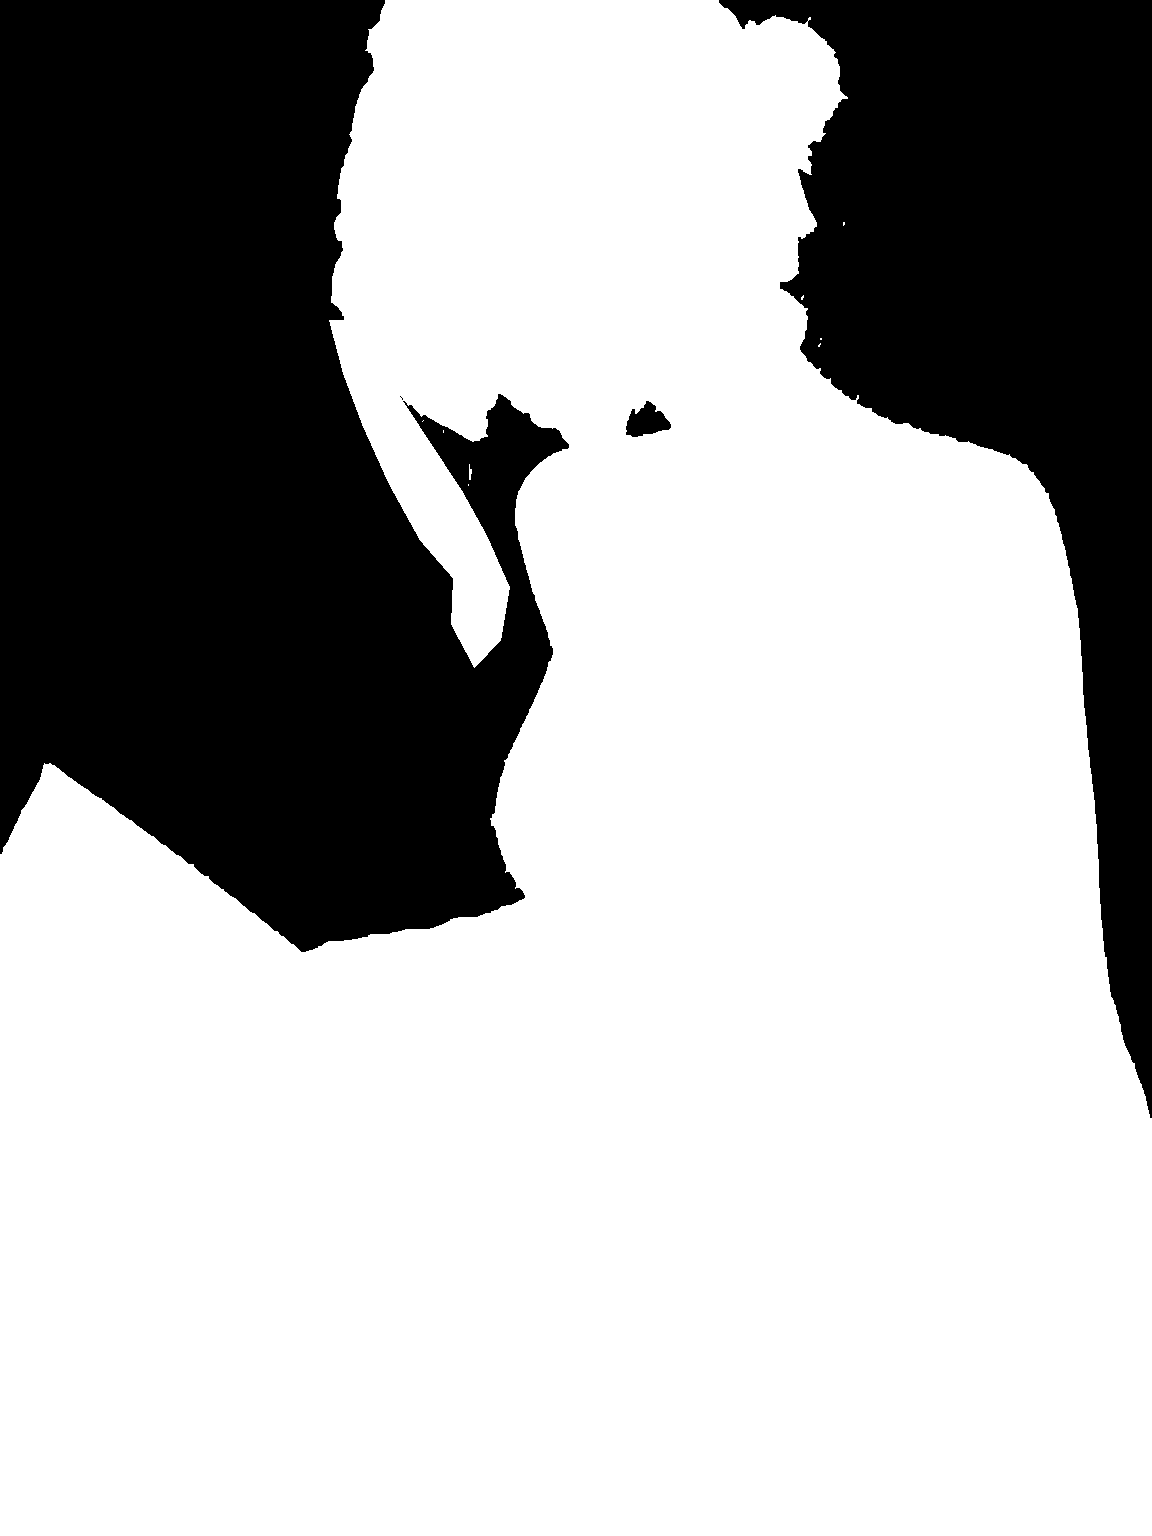
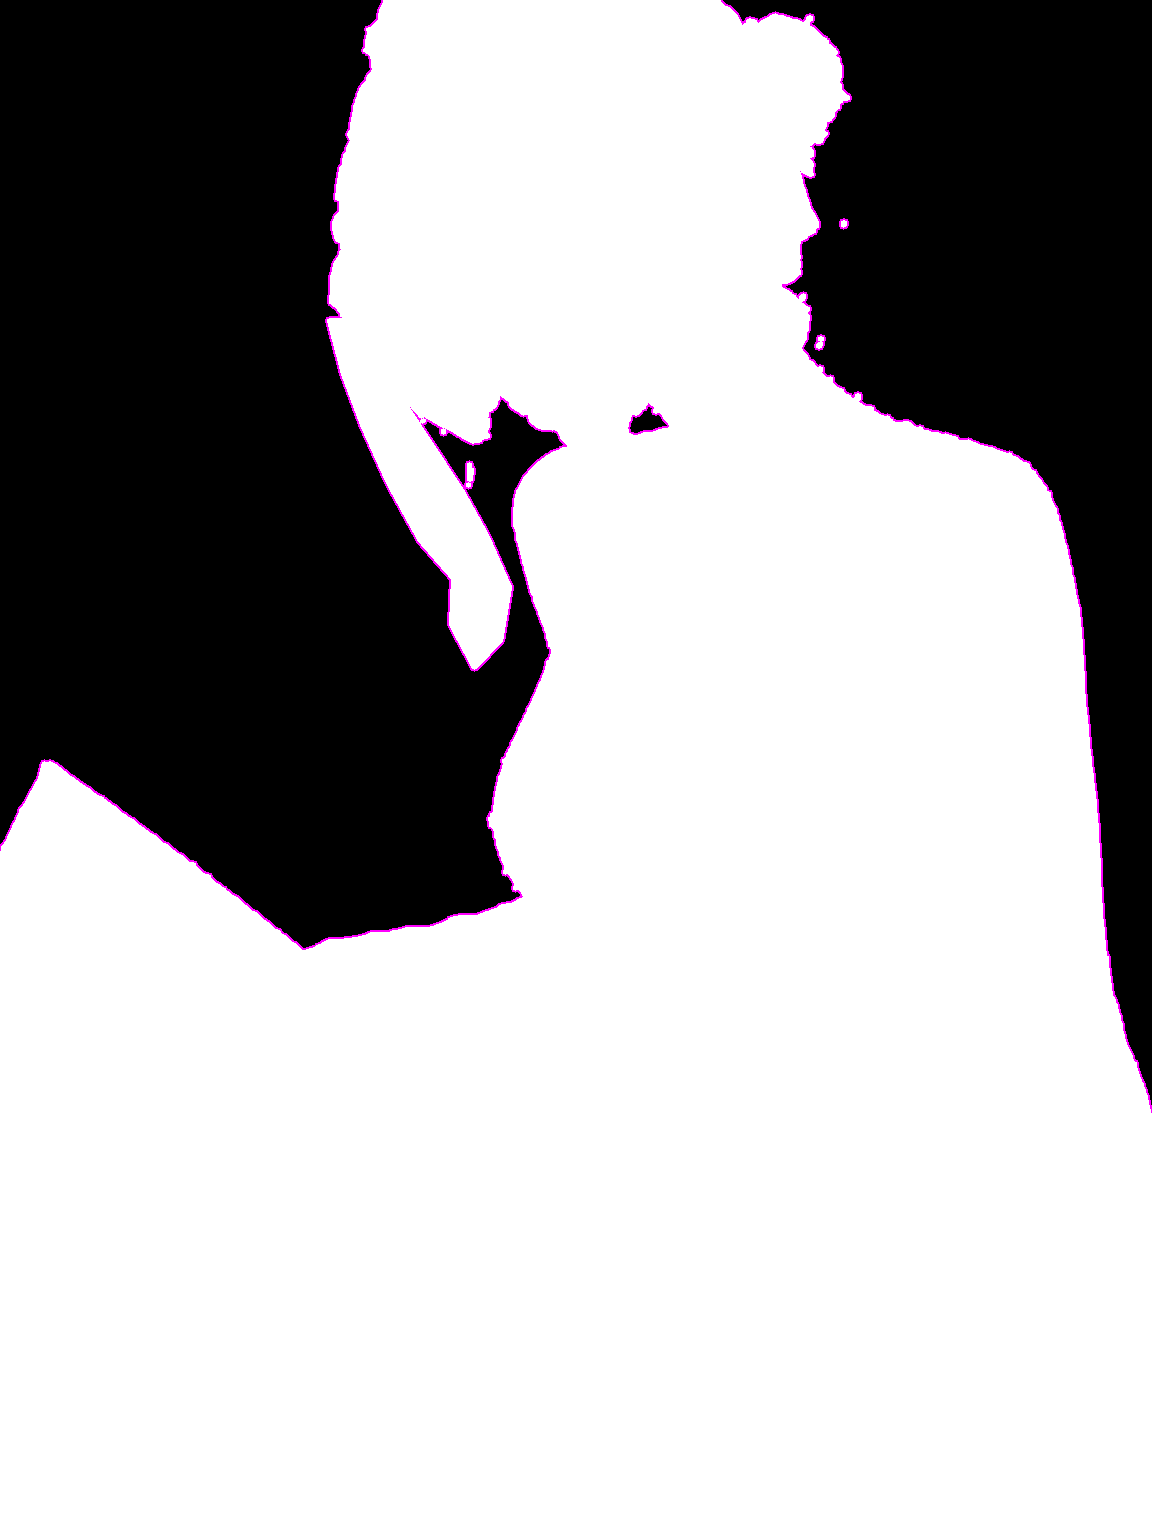
Fix residual pale contour and chest attachment fields
Separate motion coverage from static-source erasure, with erasure inside opaque coverage to remove the old curve without a neutral dark ring. Replace a single broad material field with two smooth chest lobes and neckline/ribcage taper; preserve source RGB and spring response. Verify222 pale boundary pixels, neutral chest RGB delta0, geometry and CPU/GLES regressions. User acceptance remains pending; proceed directly into S2.

diff --git a/tests/contour-regression.py b/tests/contour-regression.py
@@ -1,0 +1,22 @@
+"""Actual pale-cloth boundary coverage and neutral production composite regression."""
+from pathlib import Path
+import io,json,subprocess
+import numpy as np
+from PIL import Image,ImageChops,ImageStat
+import render_gles as g
+old=Image.open(io.BytesIO(subprocess.check_output(['git','show','2a277fdead480d1be0c1957dd448160839416516:character-prototype/preview/mask.png'],cwd=g.ROOT))).convert('L')
+current=np.array(Image.open(g.assets/'mask.png').convert('RGB'));source=np.array(Image.open(g.assets/'original.png').convert('RGB'));m=np.array(old)>127
+# Outside the old matte, pale contour pixels in the left chest ROI must be erased from the base.
+near=np.zeros_like(m)
+for dx in range(-2,3):
+ for dy in range(-2,3):
+  if dx*dx+dy*dy<=4:near|=np.roll(np.roll(m,dx,axis=1),dy,axis=0)
+roi=np.zeros_like(m);roi[600:950,450:650]=True
+edge=roi & near & ~m & (source.mean(axis=2)>150)
+assert edge.sum()>10,'fixture lacks pale contour pixels'
+coverage=float((current[:,:,1][edge]>250).mean());assert coverage>.99,('old curved edge remains in static base',coverage)
+# The opaque moving region must cover the erasure boundary at rest, avoiding a dark halo.
+neutral=g.render();reference=g.render(fill_override=0)
+difference=ImageChops.difference(neutral,reference).crop((110,400,400,800));delta=max(ImageStat.Stat(difference).mean[:3]);assert delta<.05,('neutral composite changes source chest',delta)
+result={'paleBoundaryPixels':int(edge.sum()),'sourceErasureCoverage':coverage,'neutralChestMeanRgbDifference':delta,'phoneTested':False}
+(g.ROOT/'validation/contour-fix.json').write_text(json.dumps(result,indent=2)+'\n');print(json.dumps(result))

diff --git a/android-app/tools/refine_subject_mask.py b/android-app/tools/refine_subject_mask.py
@@ -17,4 +17,11 @@ mask[1410:,:]=cv2.GC_FGD;cv2.setRNGSeed(58)
 cv2.grabCut(cv2.cvtColor(rgb,cv2.COLOR_RGB2BGR),mask,None,np.zeros((1,65)),np.zeros((1,65)),5,cv2.GC_INIT_WITH_MASK)
 matte=np.where((mask==cv2.GC_FGD)|(mask==cv2.GC_PR_FGD),255,0).astype(np.uint8)
 matte=cv2.morphologyEx(matte,cv2.MORPH_CLOSE,np.ones((3,3),np.uint8));cv2.fillPoly(matte,[np.array(s['hair']['outline'],np.int32)],255)
-Image.fromarray(matte).convert('RGB').save(P/'mask.png');print('Aligned motion matte saved; original RGB unchanged.')
+# Colour cut misses the antialiased pale cloth edge. Include its full coverage.
+coverage=cv2.dilate(matte,cv2.getStructuringElement(cv2.MORPH_ELLIPSE,(9,9)))
+# Erasure covers the original pale edge but stays inside fully opaque motion coverage.
+# This removes the old curve without exposing a dark ring at the neutral pose.
+erase=cv2.dilate(matte,cv2.getStructuringElement(cv2.MORPH_ELLIPSE,(5,5)))
+mask_rgb=np.dstack([coverage,erase,coverage])
+Image.fromarray(mask_rgb).save(P/'mask.png')
+print('Motion coverage R and conservative source erasure G saved; original RGB unchanged.')

diff --git a/docs/CONTOUR-FIX-20261025.md b/docs/CONTOUR-FIX-20261025.md
@@ -1,0 +1,11 @@
+# 0.5.8胸部/左轮廓反馈修正
+
+用户报告胸部不自然、左边有未消除的原曲线。保持原人物RGB和Q弹弹簧计算，先在原0.5.8轨迹下复现。
+
+静态底图清除与人物运动共用缩进的颜色分割边界，漏掉了浅色衣料抗锯齿像素；只扩大底图清除又会在静止时露出暗圈。本次将运动覆盖放R通道、源轮廓清除放G通道；清除覆盖原浅色边缘，但其边界处于运动层完全不透明的范围内。源图不被重画。实际生产GLES的胸部静止区域与未清除参考对比RGB均值差为0，浅色旧轮廓检查通过。
+
+单一宽高斯运动场改成两个平滑材料瓣，在领口/胸廓附着区渐进归零，避免整个胸口与衣料一起被同一个峰拖动。Q弹频率、阻尼和输入响应未改。现有极端几何/CPU-GLES检查重新通过；不把这些云端结果当成用户已经认可观感。
+
+验证入口：tests/contour-regression.py、reading-subject-regression.mjs、render_gles.py、check_projection_gles.py、export_mesh.mjs --check、scripts/verify_assets.py。
+
+按用户授权，此修正离线验证后直接继续S2，不在阶段交界等待确认。S1的其他图像配准/真机验收仍保留为未完成。
